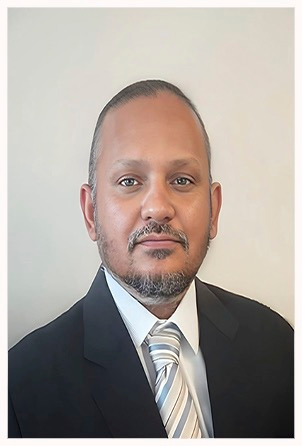
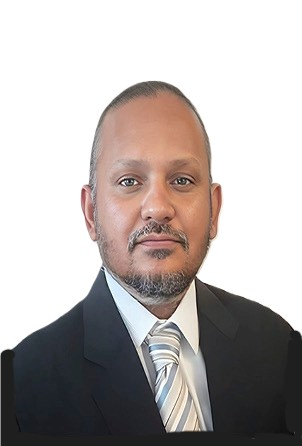
Photo's changed

diff --git a/src/components/home/PartnerProfile.tsx b/src/components/home/PartnerProfile.tsx
@@ -52,12 +52,19 @@ export default function PartnerProfile({ name, title, imageSrc, content, linkedi
         />
         
         <div className="absolute bottom-0 left-0 w-full p-6 z-20 flex flex-col justify-end h-full">
-          <div className="transform translate-y-4 group-hover:translate-y-0 transition-transform duration-500">
-            <div className="w-10 h-10 rounded-full bg-primary/20 flex items-center justify-center mb-3 backdrop-blur-sm border border-primary/30">
-              <User className="w-5 h-5 text-primary" />
+          <div className="transform translate-y-8 group-hover:translate-y-0 transition-all duration-500 ease-out">
+            <div className="flex items-center gap-3 mb-3">
+              <div className="w-10 h-10 rounded-full bg-primary/20 flex shrink-0 items-center justify-center backdrop-blur-sm border border-primary/30 group-hover:scale-110 group-hover:shadow-[0_0_15px_rgba(59,130,246,0.4)] transition-all duration-500">
+                <User className="w-5 h-5 text-primary" />
+              </div>
+              <div className="overflow-hidden">
+                <p className="text-primary text-sm font-semibold uppercase tracking-wider translate-y-full group-hover:translate-y-0 opacity-0 group-hover:opacity-100 transition-all duration-500 ease-out delay-100">
+                  {title}
+                </p>
+              </div>
             </div>
-            <h3 className="text-2xl font-bold text-white mb-1 tracking-wide">{title}</h3>
-            <div className="h-1 w-12 bg-primary mt-3 opacity-0 group-hover:opacity-100 transition-opacity duration-500 delay-100" />
+            <h3 className="text-2xl font-bold text-white mb-1 tracking-wide group-hover:text-primary transition-colors duration-300">{name}</h3>
+            <div className="h-1 w-12 bg-gradient-to-r from-primary to-accent mt-4 opacity-0 group-hover:opacity-100 group-hover:w-24 transition-all duration-500 delay-200" />
           </div>
         </div>
         